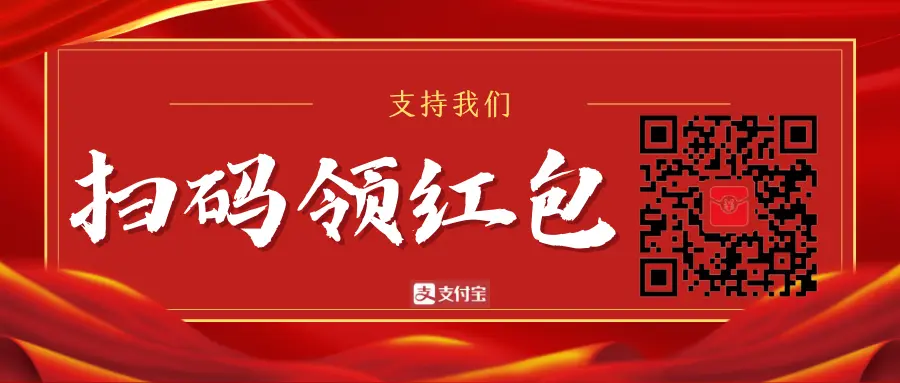
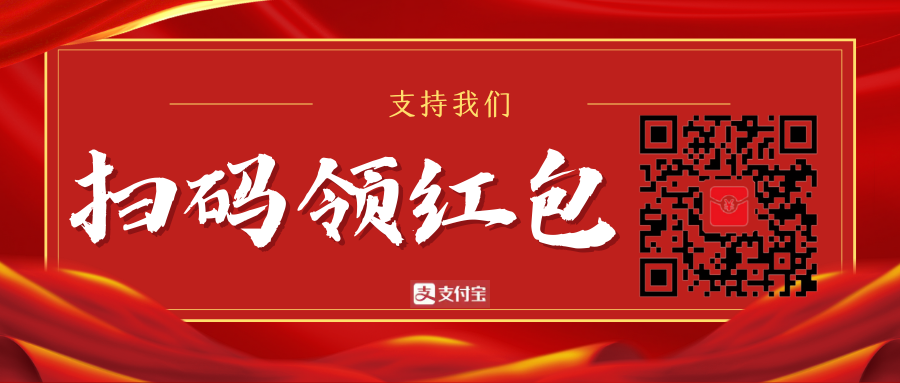
新年更新

diff --git a/index.html b/index.html
@@ -19,7 +19,7 @@
         }
 
         footer {
-            background-color: #343a40;
+            background-color: #b81414;
             color: #fff;
             text-align: center;
             padding: 15px 0;
@@ -34,7 +34,7 @@
     </style>
 </head>
 <body>
-    <nav class="navbar navbar-expand-lg navbar-dark bg-dark">
+    <nav class="navbar navbar-expand-lg navbar-dark" style="background-color: #b81414;">
         <div class="container">
             <a class="navbar-brand" href="/">VR俱乐部</a>
             <button class="navbar-toggler" type="button" data-bs-toggle="collapse" data-bs-target="#navbarNav" aria-controls="navbarNav" aria-expanded="false" aria-label="Toggle navigation">
@@ -81,10 +81,10 @@
         <!-- 轮播图片 -->
         <div class="carousel-inner">
             <div class="carousel-item active">
-            <a target="_blank" href="http://qm.qq.com/cgi-bin/qm/qr?_wv=1027&k=TLNRHzrVbMK2TJbxOkNhCfyWCAD2BMhJ&authKey=btUpthAjvZT4%2BcsL9%2FqKWP7aCYWQ75oluC9sX0PZ%2BZo9%2BTWYBO6LajKWOYRV0DUg&noverify=0&group_code=922527299"><img decoding="async" src="img/cover1.png" class="d-block" style="width:100%"></a>
+            <a target="_blank" href="http://qm.qq.com/cgi-bin/qm/qr?_wv=1027&k=TLNRHzrVbMK2TJbxOkNhCfyWCAD2BMhJ&authKey=btUpthAjvZT4%2BcsL9%2FqKWP7aCYWQ75oluC9sX0PZ%2BZo9%2BTWYBO6LajKWOYRV0DUg&noverify=0&group_code=922527299"><img decoding="async" src="img/covers.png" class="d-block" style="width:100%"></a>
             </div>
             <div class="carousel-item">
-            <a target="_blank" href="http://qm.qq.com/cgi-bin/qm/qr?_wv=1027&k=TLNRHzrVbMK2TJbxOkNhCfyWCAD2BMhJ&authKey=btUpthAjvZT4%2BcsL9%2FqKWP7aCYWQ75oluC9sX0PZ%2BZo9%2BTWYBO6LajKWOYRV0DUg&noverify=0&group_code=922527299"><img decoding="async" src="img/cover2.png" class="d-block" style="width:100%"></a>
+            <a target="_blank" href="http://qm.qq.com/cgi-bin/qm/qr?_wv=1027&k=TLNRHzrVbMK2TJbxOkNhCfyWCAD2BMhJ&authKey=btUpthAjvZT4%2BcsL9%2FqKWP7aCYWQ75oluC9sX0PZ%2BZo9%2BTWYBO6LajKWOYRV0DUg&noverify=0&group_code=922527299"><img decoding="async" src="img/cover1.png" class="d-block" style="width:100%"></a>
             </div>
             <div class="carousel-item">
             <a target="_blank" href="http://qm.qq.com/cgi-bin/qm/qr?_wv=1027&k=TLNRHzrVbMK2TJbxOkNhCfyWCAD2BMhJ&authKey=btUpthAjvZT4%2BcsL9%2FqKWP7aCYWQ75oluC9sX0PZ%2BZo9%2BTWYBO6LajKWOYRV0DUg&noverify=0&group_code=922527299"><img decoding="async" src="img/cover3.png" class="d-block" style="width:100%"></a>

diff --git a/dh.html b/dh.html
@@ -46,16 +46,15 @@
             width: 100%;
         }
         footer {
-            background-color: #343a40;
+            background-color: #b81414;
             color: #fff;
             text-align: center;
             padding: 15px 0;
-            position: relative;
         }
     </style>
 </head>
 <body>
-    <nav class="navbar navbar-expand-lg navbar-dark bg-dark">
+    <nav class="navbar navbar-expand-lg navbar-dark" style="background-color: #b81414;">
         <div class="container">
             <a class="navbar-brand" href="/">VR俱乐部</a>
             <button class="navbar-toggler" type="button" data-bs-toggle="collapse" data-bs-target="#navbarNav" aria-controls="navbarNav" aria-expanded="false" aria-label="Toggle navigation">

diff --git a/about.html b/about.html
@@ -18,7 +18,7 @@
         }
 
         footer {
-            background-color: #343a40;
+            background-color: #b81414;
             color: #fff;
             text-align: center;
             padding: 15px 0;
@@ -26,7 +26,7 @@
     </style>
 </head>
 <body>
-    <nav class="navbar navbar-expand-lg navbar-dark bg-dark">
+    <nav class="navbar navbar-expand-lg navbar-dark" style="background-color: #b81414;">
         <div class="container">
             <a class="navbar-brand" href="/">VR俱乐部</a>
             <button class="navbar-toggler" type="button" data-bs-toggle="collapse" data-bs-target="#navbarNav" aria-controls="navbarNav" aria-expanded="false" aria-label="Toggle navigation">

diff --git a/cgzs.html b/cgzs.html
@@ -19,7 +19,7 @@
         }
 
         footer {
-            background-color: #343a40;
+            background-color: #b81414;
             color: #fff;
             text-align: center;
             padding: 15px 0;
@@ -27,7 +27,7 @@
     </style>
 </head>
 <body>
-    <nav class="navbar navbar-expand-lg navbar-dark bg-dark">
+    <nav class="navbar navbar-expand-lg navbar-dark" style="background-color: #b81414;">
         <div class="container">
             <a class="navbar-brand" href="/">VR俱乐部</a>
             <button class="navbar-toggler" type="button" data-bs-toggle="collapse" data-bs-target="#navbarNav" aria-controls="navbarNav" aria-expanded="false" aria-label="Toggle navigation">

diff --git a/history.html b/history.html
@@ -19,7 +19,7 @@
         }
 
         footer {
-            background-color: #343a40;
+            background-color: #b81414;
             color: #fff;
             text-align: center;
             padding: 15px 0;
@@ -27,7 +27,7 @@
     </style>
 </head>
 <body>
-    <nav class="navbar navbar-expand-lg navbar-dark bg-dark">
+    <nav class="navbar navbar-expand-lg navbar-dark" style="background-color: #b81414;">
         <div class="container">
             <a class="navbar-brand" href="/">VR俱乐部</a>
             <button class="navbar-toggler" type="button" data-bs-toggle="collapse" data-bs-target="#navbarNav" aria-controls="navbarNav" aria-expanded="false" aria-label="Toggle navigation">

diff --git a/notice.html b/notice.html
@@ -18,7 +18,7 @@
         }
 
         footer {
-            background-color: #343a40;
+            background-color: #b81414;
             color: #fff;
             text-align: center;
             padding: 15px 0;
@@ -26,7 +26,7 @@
     </style>
 </head>
 <body>
-    <nav class="navbar navbar-expand-lg navbar-dark bg-dark">
+    <nav class="navbar navbar-expand-lg navbar-dark" style="background-color: #b81414;">
         <div class="container">
             <a class="navbar-brand" href="/">VR俱乐部</a>
             <button class="navbar-toggler" type="button" data-bs-toggle="collapse" data-bs-target="#navbarNav" aria-controls="navbarNav" aria-expanded="false" aria-label="Toggle navigation">

diff --git a/vpn.html b/vpn.html
@@ -65,7 +65,7 @@
         }
 
         footer {
-            background-color: #343a40;
+            background-color: #b81414;
             color: #fff;
             text-align: center;
             padding: 15px 0;
@@ -80,7 +80,7 @@
     </style>
 </head>
 <body>
-    <nav class="navbar navbar-expand-lg navbar-dark bg-dark">
+    <nav class="navbar navbar-expand-lg navbar-dark" style="background-color: #b81414;">
         <div class="container">
             <a class="navbar-brand" href="/">VR俱乐部</a>
             <button class="navbar-toggler" type="button" data-bs-toggle="collapse" data-bs-target="#navbarNav" aria-controls="navbarNav" aria-expanded="false" aria-label="Toggle navigation">
